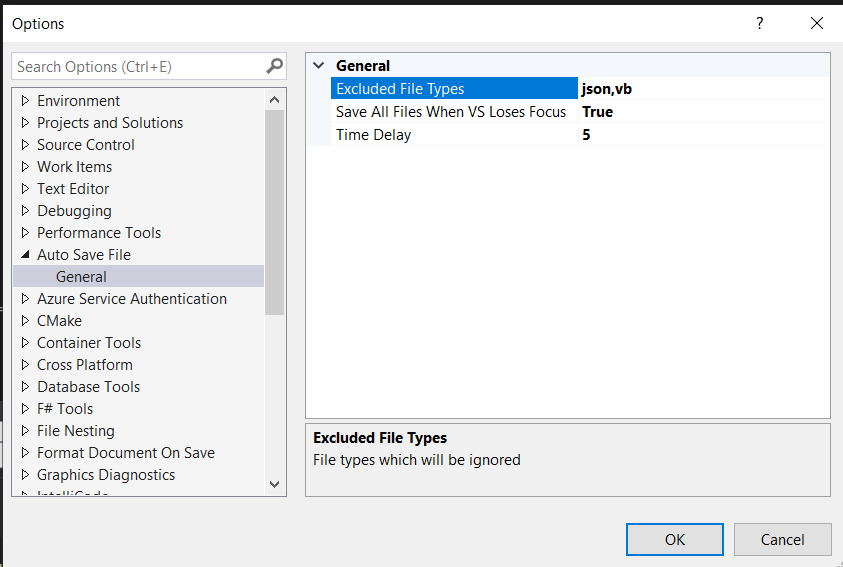
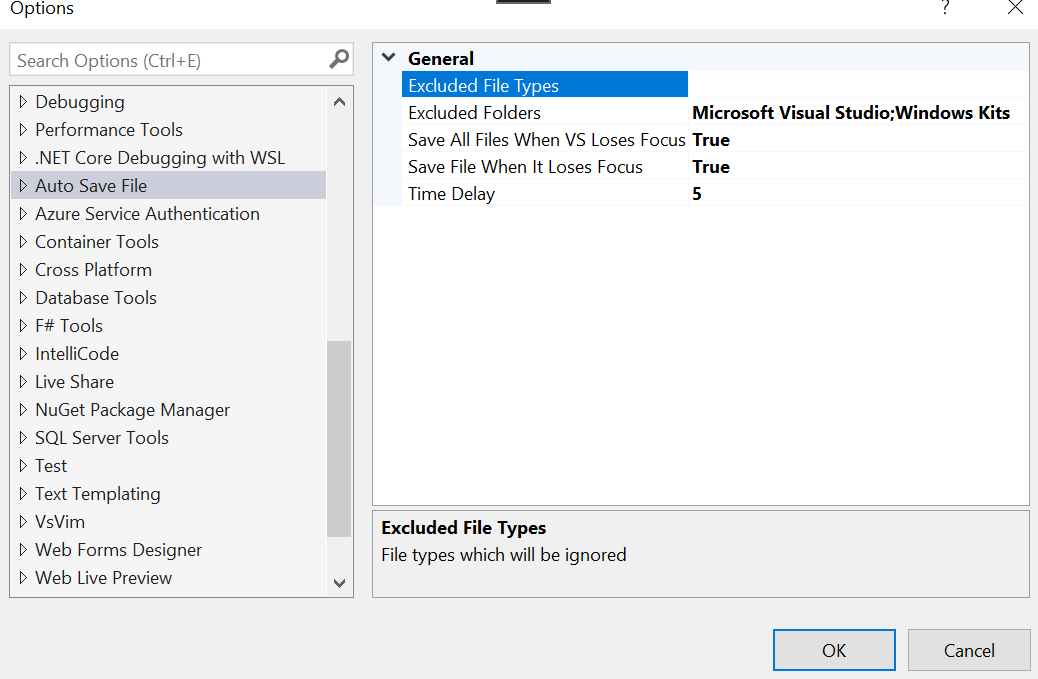
OPTION Added  to Disable Auto Save On File Change (#36)
* OPTION Added  to Disable Auto Save On File Change

* OPTION Cleanup

Changed region(s): [[0.0, 0.0, 1.0, 1.0], [0.987, 0.06, 1.0, 0.1199]]

diff --git a/AutoSaveFileShared/AutoSaveFilePackage.cs b/AutoSaveFileShared/AutoSaveFilePackage.cs
@@ -143,12 +143,12 @@ namespace AutoSaveFile
         {
             try
             {
-                var dte = (DTE)this.GetService(typeof(DTE));
                 var optionsPage = (OptionPageGrid)GetDialogPage(typeof(OptionPageGrid));
                 var saveWhenVsLosesFocus = optionsPage.ShouldSaveAllFilesWhenVSLosesFocus;
 
                 if (saveWhenVsLosesFocus)
                 {
+                    var dte = (DTE)this.GetService(typeof(DTE));
                     dte.ExecuteCommand("File.SaveAll");
                 }
             }
@@ -162,7 +162,13 @@ namespace AutoSaveFile
         {
             if (lostFocus != null)
             {
-                Save(lostFocus);
+                var optionsPage = (OptionPageGrid)GetDialogPage(typeof(OptionPageGrid));
+                var saveFileWhenItLosesFocus = optionsPage.ShouldSaveFileWhenItLosesFocus;
+
+                if (saveFileWhenItLosesFocus)
+                {
+                    Save(lostFocus);
+                }
             }
         }
 

diff --git a/AutoSaveFileShared/OptionPageGrid.cs b/AutoSaveFileShared/OptionPageGrid.cs
@@ -24,5 +24,10 @@ namespace AutoSaveFile
         [DisplayName("Save All Files When VS Loses Focus")]
         [Description("True saves all the files when VS loses focus")]
         public bool ShouldSaveAllFilesWhenVSLosesFocus { get; set; } = true;
+
+        [Category("General")]
+        [DisplayName("Save File When It Loses Focus")]
+        [Description("True saves the file when it loses focus")]
+        public bool ShouldSaveFileWhenItLosesFocus { get; set; } = true;
     }
 }

diff --git a/AutoSaveFileShared/Helper.cs b/AutoSaveFileShared/Helper.cs
@@ -5,8 +5,6 @@ using System.Linq;
 using System.Text.RegularExpressions;
 using System.Collections.Generic;
 using System;
-using System.Security.AccessControl;
-using System.Security.Principal;
 
 [assembly: InternalsVisibleTo("AutoSaveFileTests")]
 namespace AutoSaveFile

diff --git a/README.md b/README.md
@@ -7,7 +7,7 @@ There are 3 conditions when changed file/s is saved.
 | Condition                                                   | Respects ignored file types | Can be disabled? |
 | ----------------------------------------------------------- | --------------------------- | ---------------- |
 | The 5 seconds (default) have elapsed since the last change. | Yes                         | No               |
-| The file loses focus.                                       | Yes                         | No               |
+| The file loses focus.                                       | Yes                         | Yes              |
 | Visual Studio loses focus. All the changed files are saved. | No                          | Yes              |
 
 ### Visual Studio Marketplace URLs
